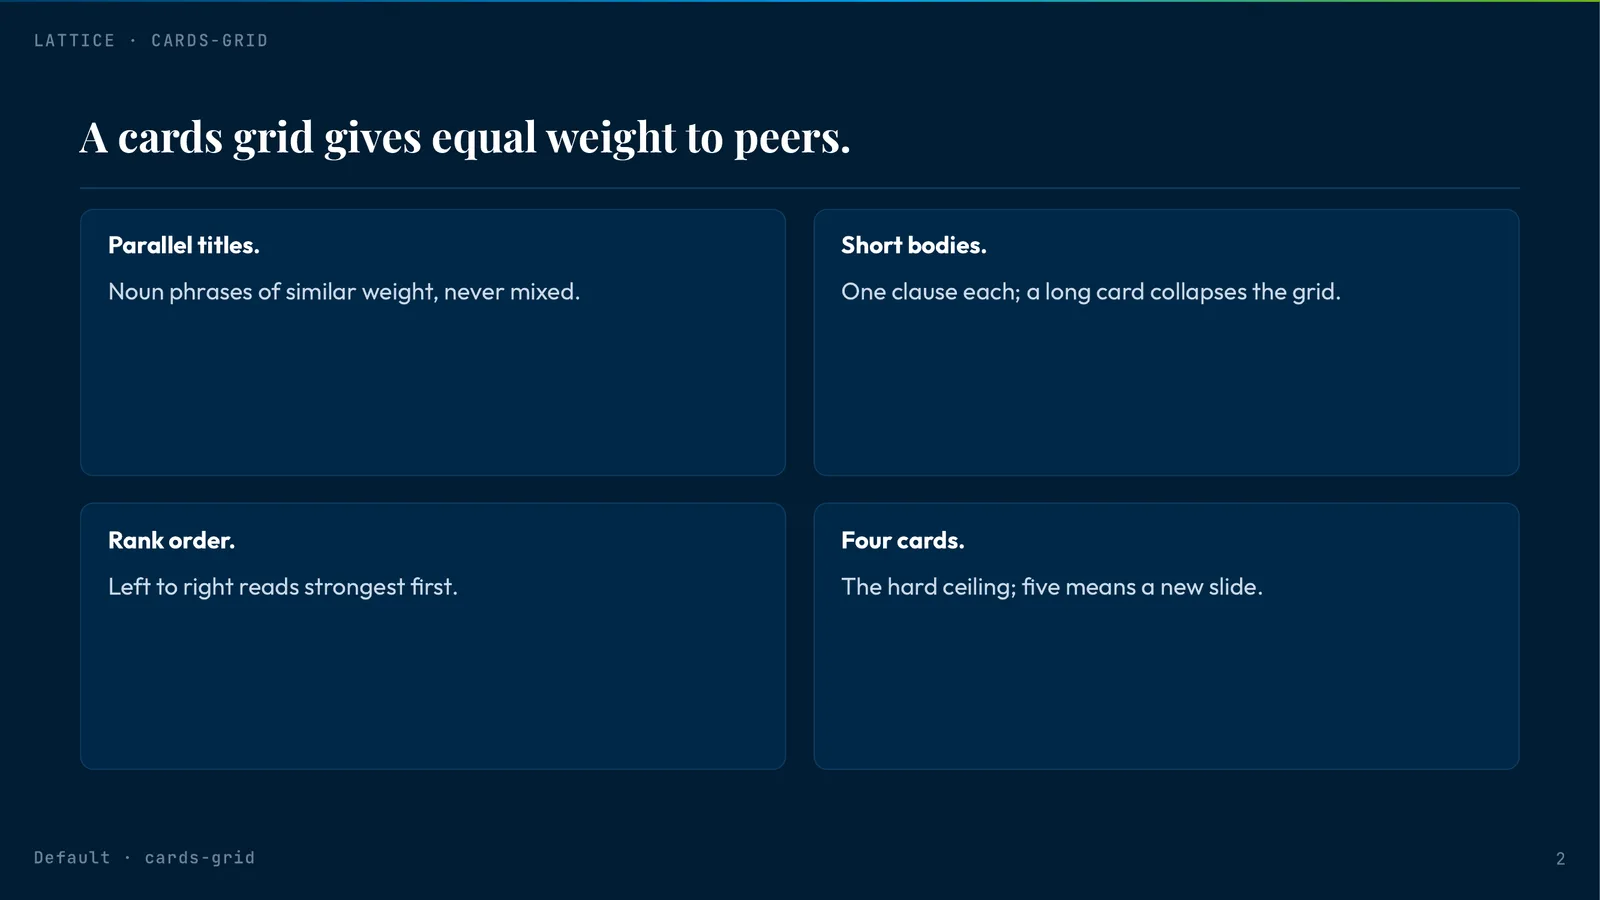
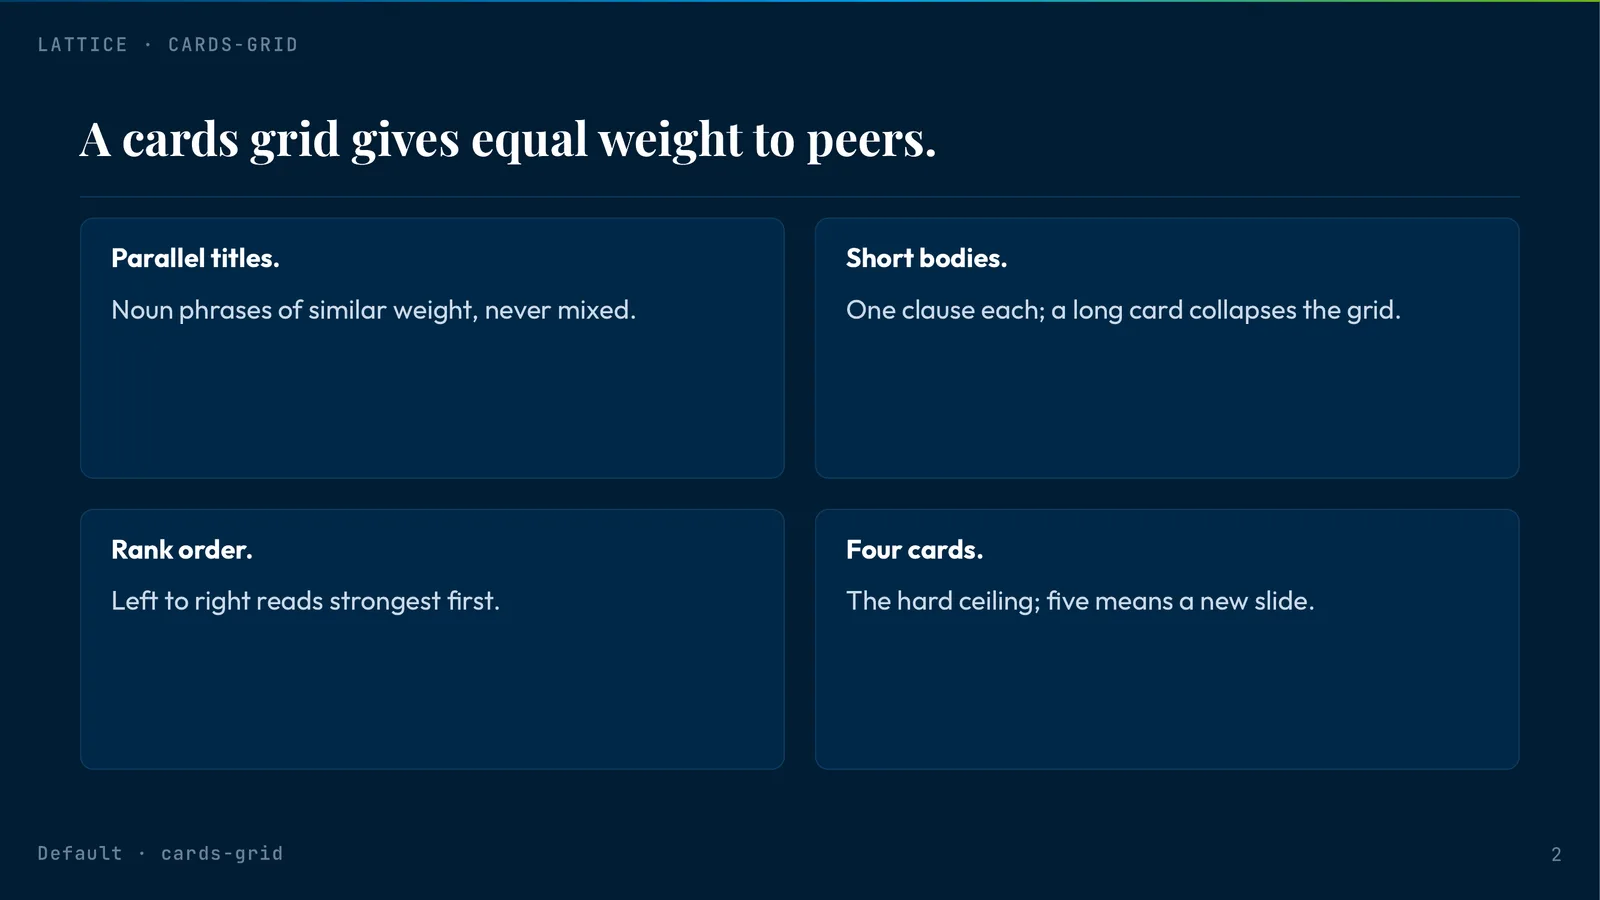
docs(showcase): re-rasterize the drifted showcase images, and correct the fallout count
The docs site's showcase WebPs are cut from the component gallery PDFs, so
rebuilding those PDFs left all 30 stale and failed `docs-build` and `preview`
(both report the same drift). Regenerated with docs/scripts/rasterize-showcase.mjs.

Also folds in the code-quality bot's finding — `pool()` passed an index that
`probe()` does not take — and corrects the fallout numbers to what the finished
corpus sweep actually measured on the shipping tree: 42 decks / 67 clipped slides
against main's 10 / 15, which is 53 newly-clipping slides across 33 decks. The
earlier "37 / 68" was measured mid-flight, before the manifest reverts.

Claude-Session: https://claude.ai/code/session_015YtRSwY2KZHbYwC5bToHbg

diff --git a/tools/check-overflow-corpus.js b/tools/check-overflow-corpus.js
@@ -93,7 +93,7 @@ async function pool(items, n, fn) {
   const results = new Array(items.length);
   let i = 0;
   await Promise.all(Array.from({ length: Math.min(n, items.length) }, async () => {
-    while (i < items.length) { const k = i++; results[k] = await fn(items[k], k); }
+    while (i < items.length) { const k = i++; results[k] = await fn(items[k]); }
   }));
   return results;
 }

diff --git a/engineering/decisions/2026-07-30-slide-geometry-emitted-not-measured.md b/engineering/decisions/2026-07-30-slide-geometry-emitted-not-measured.md
@@ -11,7 +11,7 @@ summary: >
   is fixed alongside: state-chart derived its geometry scale from a transform-scaled rect.
   THE CATCH, and why this is `proposed` rather than done: correcting the size up reveals that
   the shipped deck corpus is over-subscribed at design size. Measured over all 185 decks, the
-  export goes from 10 decks / 15 clipped slides to 37 / 68. Those slides are ALREADY clipping
+  export goes from 10 decks / 15 clipped slides to 42 / 67. Those slides are ALREADY clipping
   in the preview on `main` today — the export was hiding them — but 53 of them would newly clip
   in committed PDFs. Twelve decks are trimmed here; the rest is a fork that needs a human call,
   stated in §6.
@@ -126,15 +126,18 @@ the baseline deck) through the real emulator on both trees and reading its own
 
 | | decks clipping | slides clipped |
 |---|---|---|
-| `main` (23b9666) | 10 | 15 |
-| this branch | 37 | 68 |
+| `main` | 10 | 15 |
+| this branch | 42 | 67 |
+
+`npm run overflow:check` reports it precisely: **53 newly-clipping slides across 33 decks**,
+one slide fixed below baseline.
 
 **Fixed here (12 decks, all to zero):** `q-and-a` (2), `inventory` (2), `gallery-jargon` (3),
 `baseline-decks/gallery` (7), `auto-split` (2), `kanban-chart-redesign` (4), `map` (3),
 `policy-recommendation` (2), `read-across-carousel` (3), `split-envelope` (2),
 `staged-flow` (2), `universal-pill` (2).
 
-**Not fixed: 53 slides across ~25 decks**, listed by `npm run overflow:check`. They are
+**Not fixed: 53 slides across 33 decks**, named by `npm run overflow:check`. They are
 the fork in §6.
 
 Two things learned while trimming, worth writing down because they cost time:
@@ -182,7 +185,7 @@ when it normalizes, BOTH sides of every ratio have to move.
 
 ## 6. The fork this leaves open
 
-53 slides across ~25 decks clip at design size and are not fixed here. Under HARD RULE
+53 slides across 33 decks clip at design size and are not fixed here. Under HARD RULE
 #18 a pre-existing fragility this change tips into visible failure is this change's to
 fix — and #18 is equally clear that when the correct fix is too large for the PR, the
 answer is to hold, not to file and ship. So this note is `proposed` and the PR is for

diff --git a/CHANGELOG.md b/CHANGELOG.md
@@ -72,8 +72,8 @@ in patch versions.
   `26.8125px 19.5px 31.6875px` at 390px; it is the former at every size now. **(2) The export
   and the preview flag the same slides**, deck for deck. **(3) The shipped corpus turns out to
   be over-subscribed at design size**: measured across all 185 decks, the export goes from 10
-  decks / 15 clipped slides to 37 / 68. Twelve decks are trimmed back to zero here; **53 slides
-  across ~25 decks are NOT fixed** — they already clip in the preview on `main` today, and
+  decks / 15 clipped slides to 42 / 67. Twelve decks are trimmed back to zero here; **53 slides
+  across 33 decks are NOT fixed** — they already clip in the preview on `main` today, and
   re-authoring them is a content pass that needs a human call
   (`engineering/decisions/2026-07-30-slide-geometry-emitted-not-measured.md` §6). Also note
   exported PAGE COUNTS can move: `examples/social-portrait.md` goes 8 → 10 as auto-split
